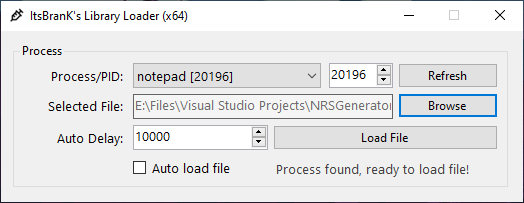
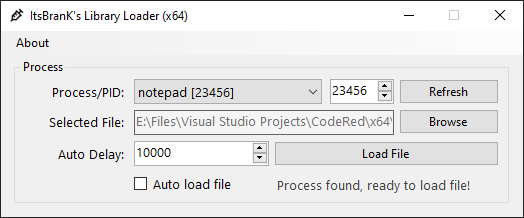
Initial Commit

diff --git a/Forms/MainFrm.Designer.cs b/Forms/MainFrm.Designer.cs
@@ -45,9 +45,12 @@
             ProcessLbl = new System.Windows.Forms.Label();
             DelayTmr = new System.Windows.Forms.Timer(components);
             ProcessTmr = new System.Windows.Forms.Timer(components);
+            MenuStrp = new System.Windows.Forms.MenuStrip();
+            AboutMenuItem = new System.Windows.Forms.ToolStripMenuItem();
             ProcessGroupBx.SuspendLayout();
             ((System.ComponentModel.ISupportInitialize)DelayBx).BeginInit();
             ((System.ComponentModel.ISupportInitialize)PIDBx).BeginInit();
+            MenuStrp.SuspendLayout();
             SuspendLayout();
             // 
             // ProcessGroupBx
@@ -64,7 +67,7 @@
             ProcessGroupBx.Controls.Add(PIDBx);
             ProcessGroupBx.Controls.Add(ProcessBx);
             ProcessGroupBx.Controls.Add(ProcessLbl);
-            ProcessGroupBx.Location = new System.Drawing.Point(12, 12);
+            ProcessGroupBx.Location = new System.Drawing.Point(13, 28);
             ProcessGroupBx.Name = "ProcessGroupBx";
             ProcessGroupBx.Size = new System.Drawing.Size(495, 145);
             ProcessGroupBx.TabIndex = 0;
@@ -218,14 +221,32 @@
             ProcessTmr.Interval = 1500;
             ProcessTmr.Tick += ProcessTmr_Tick;
             // 
+            // MenuStrp
+            // 
+            MenuStrp.Items.AddRange(new System.Windows.Forms.ToolStripItem[] { AboutMenuItem });
+            MenuStrp.Location = new System.Drawing.Point(0, 0);
+            MenuStrp.Name = "MenuStrp";
+            MenuStrp.Size = new System.Drawing.Size(522, 24);
+            MenuStrp.TabIndex = 1;
+            MenuStrp.Text = "menuStrip1";
+            // 
+            // AboutMenuItem
+            // 
+            AboutMenuItem.Name = "AboutMenuItem";
+            AboutMenuItem.Size = new System.Drawing.Size(52, 20);
+            AboutMenuItem.Text = "About";
+            AboutMenuItem.Click += AboutMenuItem_Click;
+            // 
             // MainFrm
             // 
             AutoScaleDimensions = new System.Drawing.SizeF(7F, 15F);
             AutoScaleMode = System.Windows.Forms.AutoScaleMode.Font;
-            ClientSize = new System.Drawing.Size(522, 171);
+            ClientSize = new System.Drawing.Size(522, 186);
             Controls.Add(ProcessGroupBx);
+            Controls.Add(MenuStrp);
             FormBorderStyle = System.Windows.Forms.FormBorderStyle.FixedSingle;
             Icon = (System.Drawing.Icon)resources.GetObject("$this.Icon");
+            MainMenuStrip = MenuStrp;
             MaximizeBox = false;
             Name = "MainFrm";
             StartPosition = System.Windows.Forms.FormStartPosition.CenterScreen;
@@ -235,7 +256,10 @@
             ProcessGroupBx.PerformLayout();
             ((System.ComponentModel.ISupportInitialize)DelayBx).EndInit();
             ((System.ComponentModel.ISupportInitialize)PIDBx).EndInit();
+            MenuStrp.ResumeLayout(false);
+            MenuStrp.PerformLayout();
             ResumeLayout(false);
+            PerformLayout();
         }
 
         #endregion
@@ -255,5 +279,7 @@
         private System.Windows.Forms.Timer DelayTmr;
         private System.Windows.Forms.Label StatusLbl;
         private System.Windows.Forms.Timer ProcessTmr;
+        private System.Windows.Forms.MenuStrip MenuStrp;
+        private System.Windows.Forms.ToolStripMenuItem AboutMenuItem;
     }
 }

diff --git a/Forms/MainFrm.cs b/Forms/MainFrm.cs
@@ -5,6 +5,7 @@ using System.Collections.Generic;
 using System.IO;
 using LibraryLoader.Framework;
 using System.Configuration;
+using LibraryLoader.Forms;
 
 namespace LibraryLoader
 {
@@ -20,22 +21,11 @@ namespace LibraryLoader
 
     public partial class MainFrm : Form
     {
-        private static bool _x64Bit = true;
         private static StatusTypes _status = StatusTypes.NoProcess;
         private static bool _autoLoad = false;
         private static string _libraryFile = "";
         private static string _processName = "";
         private static Int32 _processId = 0;
-
-        private string GetTitleName()
-        {
-            if (_x64Bit)
-            {
-                return "ItsBranK's Library Loader (x64)";
-            }
-
-            return "ItsBranK's Library Loader (x32)";
-        }
 
         public MainFrm()
         {
@@ -44,10 +34,16 @@ namespace LibraryLoader
 
         private void MainFrm_Load(object sender, EventArgs e)
         {
-            this.Text = GetTitleName();
+            this.Text = Assembly.GetTitle();
             LoadProcesses();
             SetStatus(StatusTypes.NoFile);
             ProcessTmr.Start();
+        }
+
+        private void AboutMenuItem_Click(object sender, EventArgs e)
+        {
+            AboutFrm aboutFrm = new AboutFrm();
+            aboutFrm.Show();
         }
 
         private void ProcessBx_SelectedValueChanged(object sender, EventArgs e)
@@ -170,7 +166,7 @@ namespace LibraryLoader
             }
             else if (process == null)
             {
-                this.Text = GetTitleName();
+                this.Text = Assembly.GetTitle();
                 LoadBtn.Enabled = false;
                 DelayTmr.Stop();
                 FLoader.ClearHandleCache();
@@ -316,7 +312,7 @@ namespace LibraryLoader
 
                         if (result == InjectionResults.Success)
                         {
-                            this.Text = (GetTitleName() + " - " + _processName);
+                            this.Text = (Assembly.GetTitle() + " - " + _processName);
                             SetStatus(StatusTypes.LoadSuccess);
                             LoadBtn.Enabled = false;
                         }

diff --git a/Forms/AboutFrm.cs b/Forms/AboutFrm.cs
@@ -1,24 +1,12 @@
 using System;
 using System.Diagnostics;
 using System.Windows.Forms;
+using LibraryLoader.Framework;
 
 namespace LibraryLoader.Forms
 {
     public partial class AboutFrm : Form
     {
-        private static bool _x64Bit = true;
-        private static string _version = "v1.0";
-
-        private string GetTitleName()
-        {
-            if (_x64Bit)
-            {
-                return "ItsBranK's Library Loader (x64) - About";
-            }
-
-            return "ItsBranK's Library Loader (x32) - About";
-        }
-
         public AboutFrm()
         {
             InitializeComponent();
@@ -26,8 +14,9 @@ namespace LibraryLoader.Forms
 
         private void AboutFrm_Load(object sender, EventArgs e)
         {
-            this.Text = GetTitleName();
-            VersionLbl.Text = _version;
+            this.Text = Assembly.GetTitle();
+            ArchetypeLbl.Text = (Assembly.Is64Bit() ? "x64" : "x86");
+            VersionLbl.Text = ("v" + Assembly.GetVersion());
         }
 
         private void GitHubLbl_Click(object sender, EventArgs e)

diff --git a/Framework/Assembly.cs b/Framework/Assembly.cs
@@ -1,0 +1,19 @@
+using System;
+using System.Collections.Generic;
+using System.Linq;
+using System.Text;
+using System.Threading.Tasks;
+
+namespace LibraryLoader.Framework
+{
+    public static class Assembly
+    {
+        private static readonly bool _x64Bit = true;
+        private static readonly string _title = "ItsBranK's Library Loader";
+        private static readonly string _version = "1.0";
+
+        public static bool Is64Bit() { return _x64Bit; }
+        public static string GetTitle() { return (_title + (Is64Bit() ? " (x64)" : " (x86)")); }
+        public static string GetVersion() { return _version; }
+    }
+}
